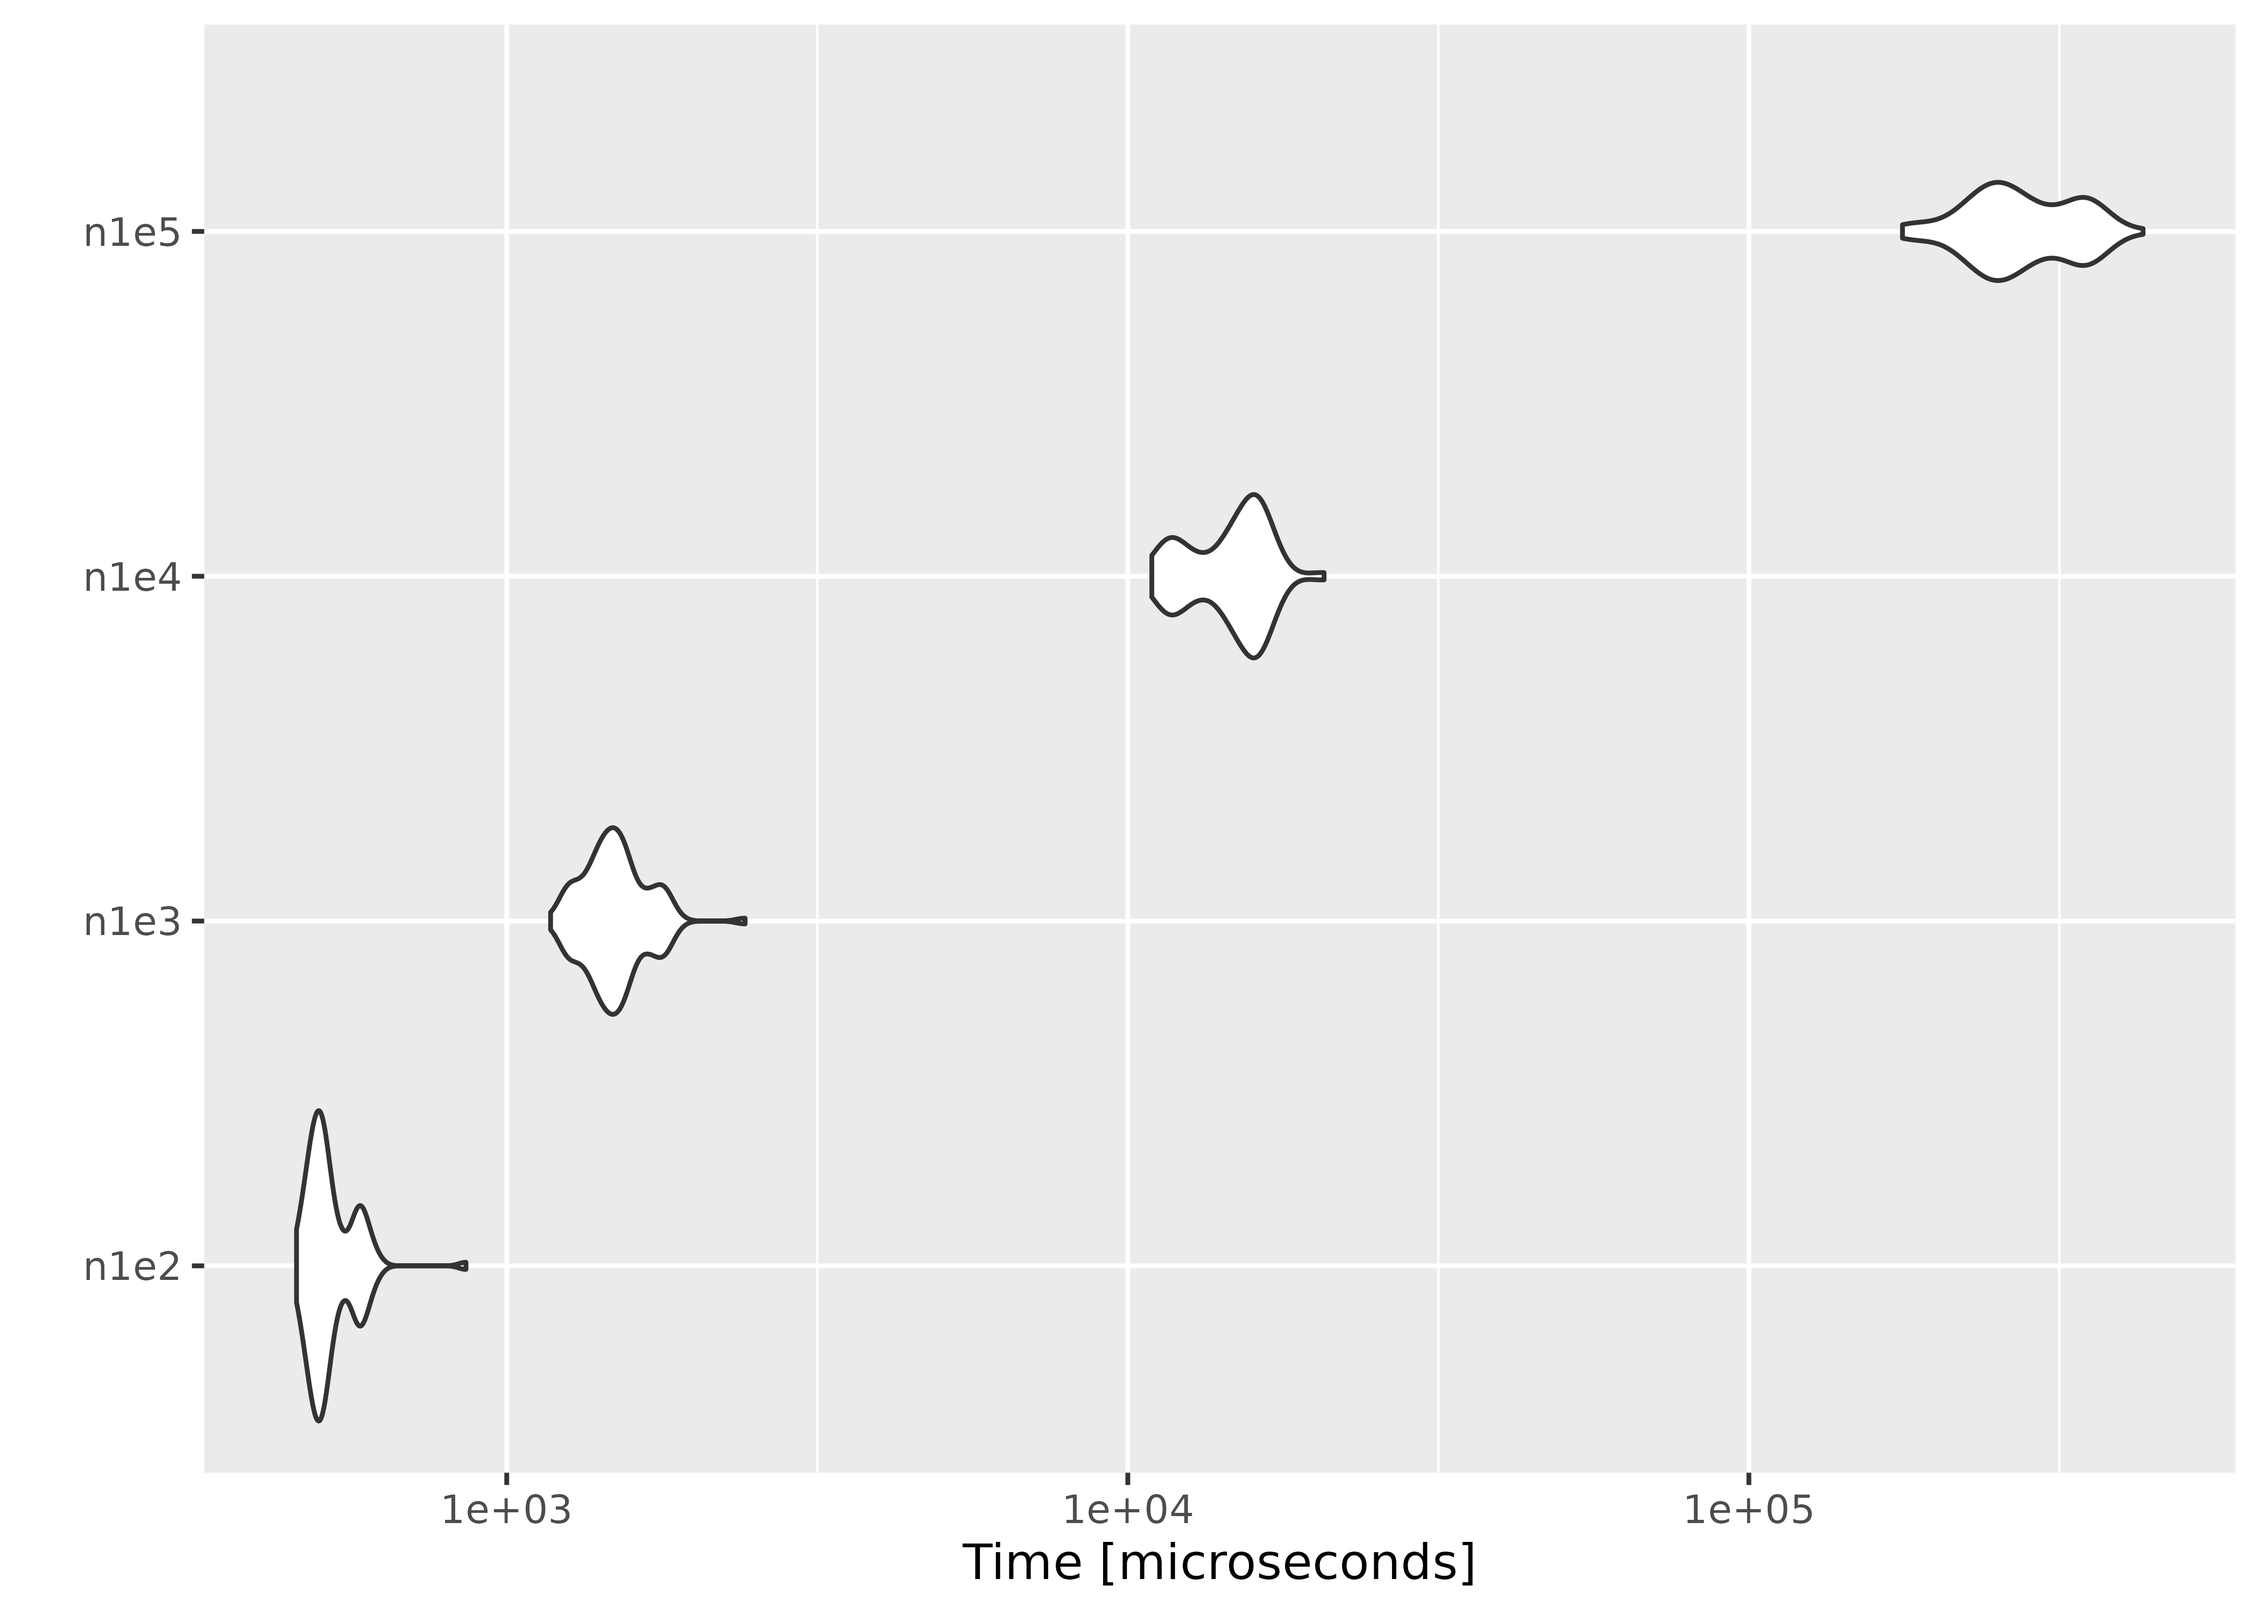
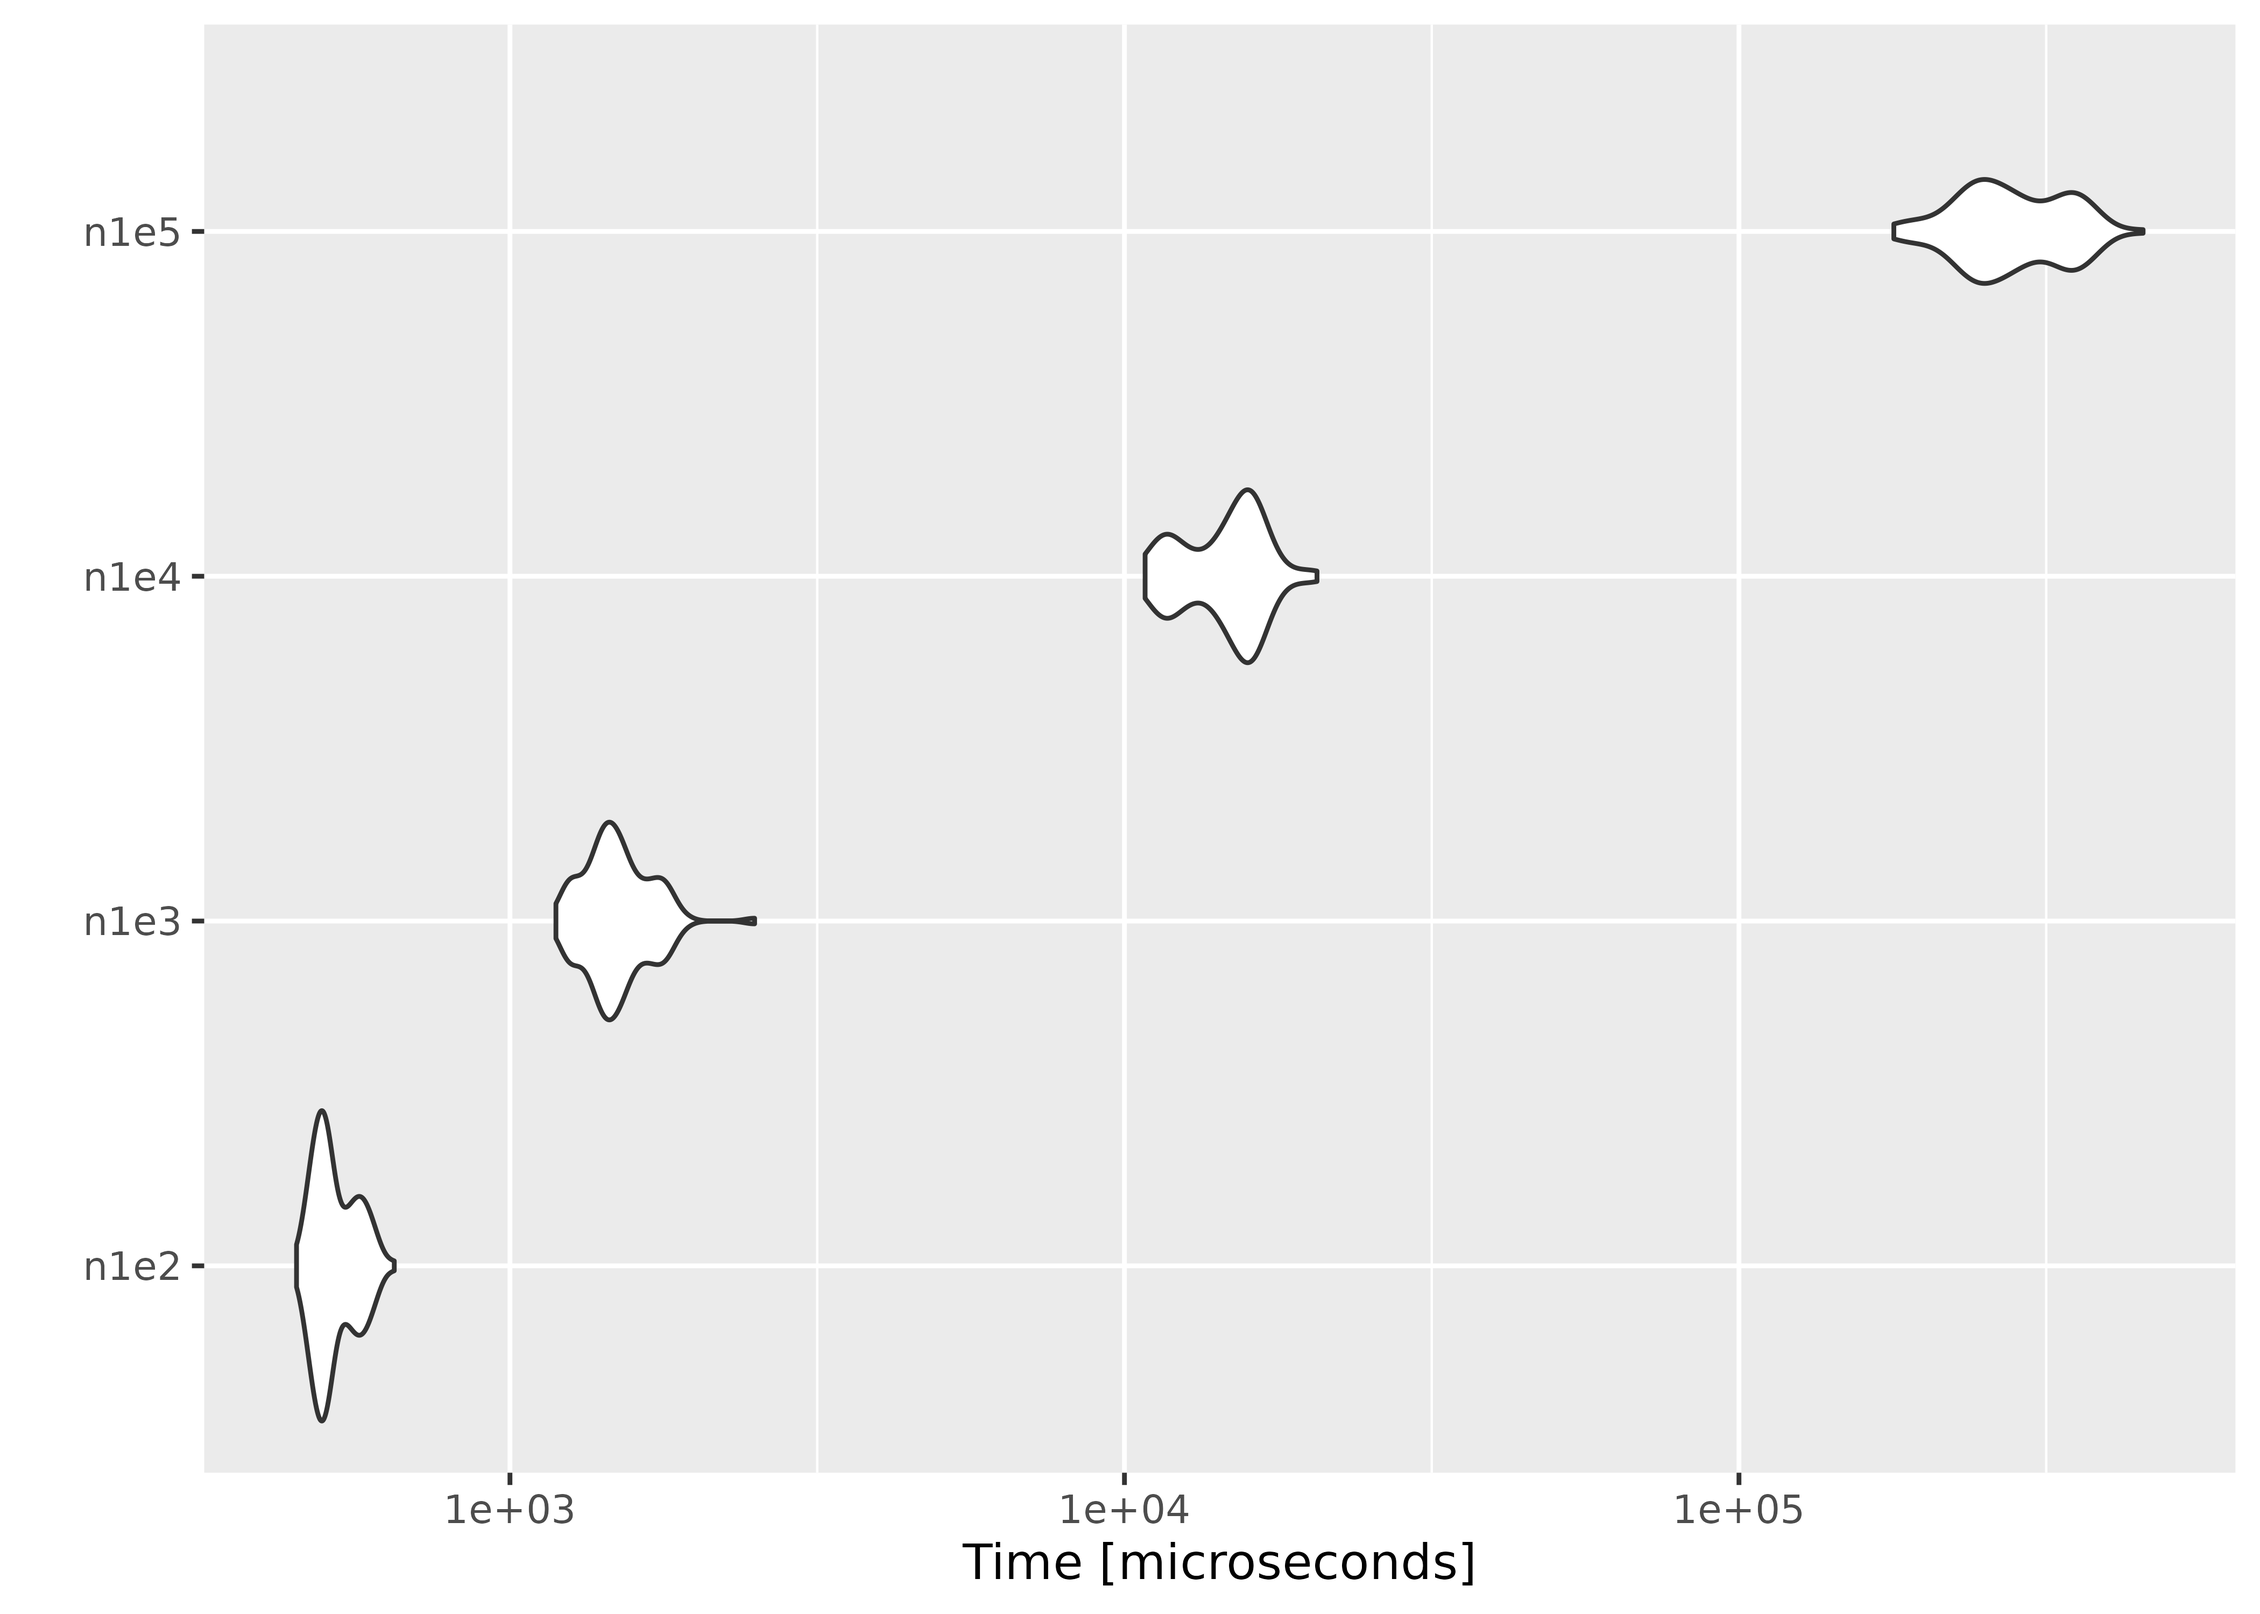
Deploying to gh-pages from @ ropensci/melt@d08955eebbfe169d7da66e6edcf9329f9c728cc2 🚀

diff --git a/articles/performance.html b/articles/performance.html
@@ -138,16 +138,16 @@ parameters increases with the number of observations fixed.</p>
 <div class="sourceCode" id="cb2"><pre class="downlit sourceCode r">
 <code class="sourceCode R"><span><span class="va">result</span></span>
 <span><span class="co">#&gt; Unit: microseconds</span></span>
-<span><span class="co">#&gt;  expr        min         lq       mean     median          uq        max neval</span></span>
-<span><span class="co">#&gt;  n1e2    458.717    487.891    521.422    506.355    542.0915    859.734   100</span></span>
-<span><span class="co">#&gt;  n1e3   1176.566   1388.211   1503.116   1482.712   1575.0400   2419.947   100</span></span>
-<span><span class="co">#&gt;  n1e4  10931.294  12444.052  14694.943  15272.682  16128.7100  20704.045   100</span></span>
-<span><span class="co">#&gt;  n1e5 176723.474 239977.685 279774.577 267379.647 336095.6290 431258.335   100</span></span>
-<span><span class="co">#&gt;  cld</span></span>
-<span><span class="co">#&gt;  a  </span></span>
-<span><span class="co">#&gt;  a  </span></span>
-<span><span class="co">#&gt;   b </span></span>
-<span><span class="co">#&gt;    c</span></span>
+<span><span class="co">#&gt;  expr        min          lq        mean      median          uq        max</span></span>
+<span><span class="co">#&gt;  n1e2    449.448    486.7225    519.6102    504.6655    555.0855    648.229</span></span>
+<span><span class="co">#&gt;  n1e3   1187.986   1387.4125   1504.9806   1477.3600   1606.7815   2501.225</span></span>
+<span><span class="co">#&gt;  n1e4  10804.139  12458.6350  14659.2841  15303.7860  16058.7635  20573.529</span></span>
+<span><span class="co">#&gt;  n1e5 178658.138 238737.0220 282846.7707 271509.9070 338283.3360 454618.710</span></span>
+<span><span class="co">#&gt;  neval cld</span></span>
+<span><span class="co">#&gt;    100 a  </span></span>
+<span><span class="co">#&gt;    100 a  </span></span>
+<span><span class="co">#&gt;    100  b </span></span>
+<span><span class="co">#&gt;    100   c</span></span>
 <span><span class="fu"><a href="https://ggplot2.tidyverse.org/reference/autoplot.html" class="external-link">autoplot</a></span><span class="op">(</span><span class="va">result</span><span class="op">)</span></span></code></pre></div>
 <p><img src="performance_files/figure-html/unnamed-chunk-4-1.png" width="100%" style="display: block; margin: auto;"></p>
 </div>
@@ -179,16 +179,16 @@ likelihood at zero vectors of different sizes.</p>
 <div class="sourceCode" id="cb4"><pre class="downlit sourceCode r">
 <code class="sourceCode R"><span><span class="va">result2</span></span>
 <span><span class="co">#&gt; Unit: microseconds</span></span>
-<span><span class="co">#&gt;  expr        min         lq        mean     median          uq        max neval</span></span>
-<span><span class="co">#&gt;    p5    732.607    766.361    808.9106    792.048    836.5615   1143.645   100</span></span>
-<span><span class="co">#&gt;   p25   2851.803   2889.599   3030.5725   2914.735   2985.4530   6057.166   100</span></span>
-<span><span class="co">#&gt;  p100  22815.616  25342.844  27431.1507  25584.264  30402.7685  45553.789   100</span></span>
-<span><span class="co">#&gt;  p400 258339.914 283552.640 316939.1498 305670.769 343781.9415 441934.763   100</span></span>
-<span><span class="co">#&gt;  cld</span></span>
-<span><span class="co">#&gt;  a  </span></span>
-<span><span class="co">#&gt;  a  </span></span>
-<span><span class="co">#&gt;   b </span></span>
-<span><span class="co">#&gt;    c</span></span>
+<span><span class="co">#&gt;  expr        min          lq        mean     median          uq        max</span></span>
+<span><span class="co">#&gt;    p5    729.039    773.3175    815.6222    803.544    856.6625   1213.784</span></span>
+<span><span class="co">#&gt;   p25   2847.450   2899.7225   2990.6588   2959.349   3005.6910   5848.507</span></span>
+<span><span class="co">#&gt;  p100  22810.300  25354.4545  27764.3702  26004.347  30567.1210  45583.711</span></span>
+<span><span class="co">#&gt;  p400 260030.002 285083.0350 318569.5850 306560.264 338309.1235 441486.600</span></span>
+<span><span class="co">#&gt;  neval cld</span></span>
+<span><span class="co">#&gt;    100 a  </span></span>
+<span><span class="co">#&gt;    100 a  </span></span>
+<span><span class="co">#&gt;    100  b </span></span>
+<span><span class="co">#&gt;    100   c</span></span>
 <span><span class="fu"><a href="https://ggplot2.tidyverse.org/reference/autoplot.html" class="external-link">autoplot</a></span><span class="op">(</span><span class="va">result2</span><span class="op">)</span></span></code></pre></div>
 <p><img src="performance_files/figure-html/unnamed-chunk-6-1.png" width="100%" style="display: block; margin: auto;"></p>
 <p>On average, evaluating empirical likelihood with a 100000×10 or
